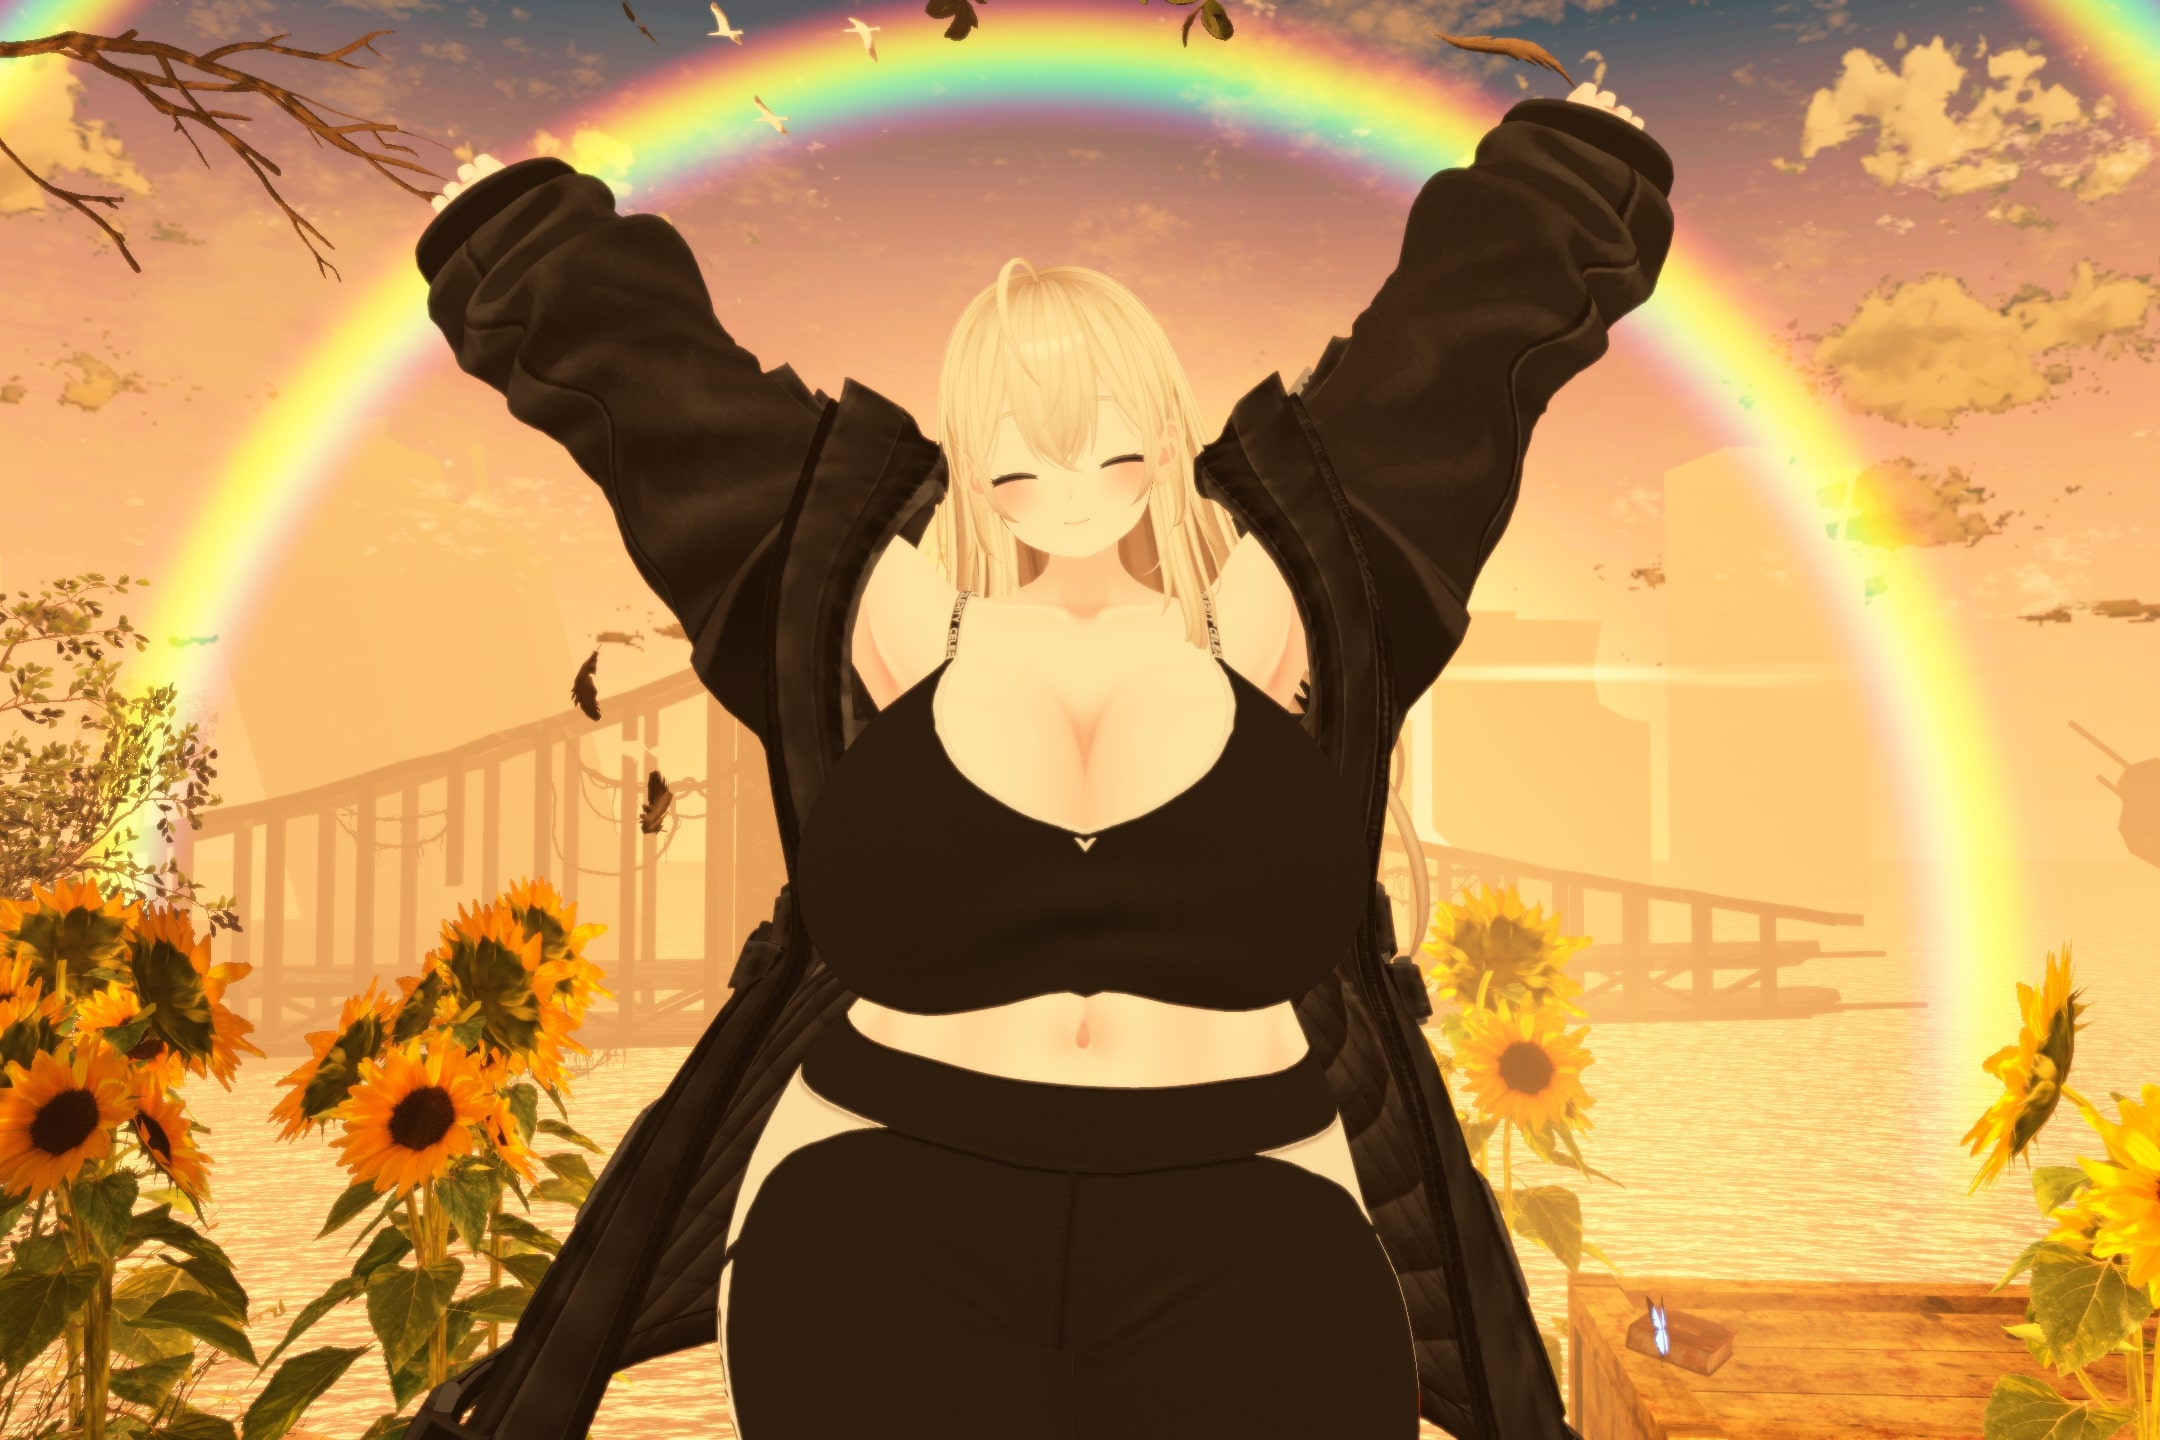
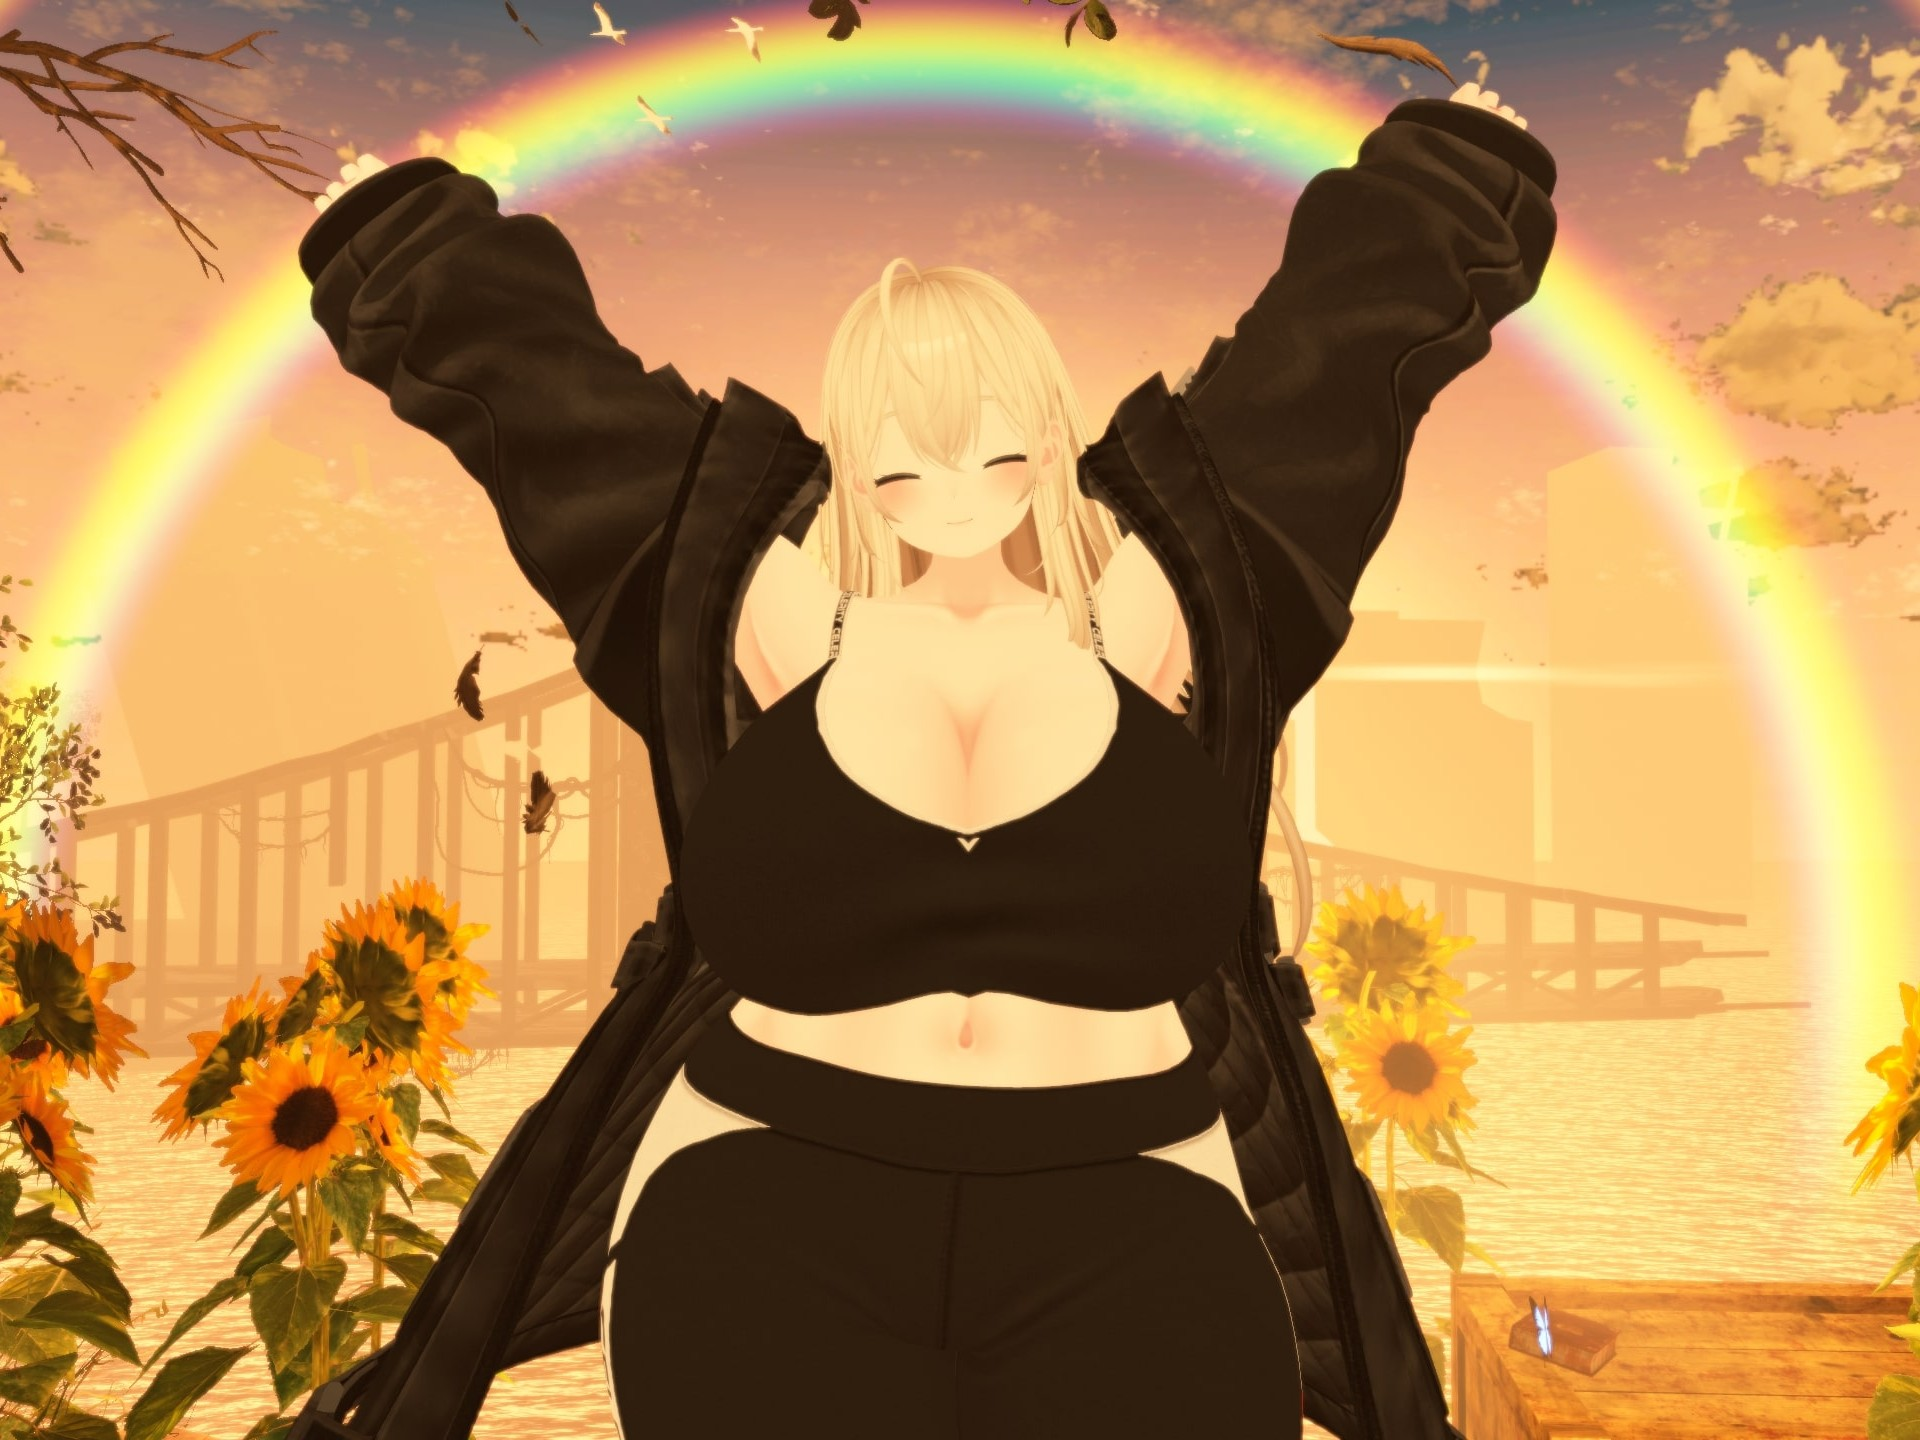
VR: 一部コメントを優しく, 4:3統一

diff --git a/vr/index.html b/vr/index.html
@@ -214,7 +214,7 @@
             <h3 class="header">Z5-MidnightD</h3>
             <budoux-ja>
                 前々作を参考に以前フルセットで購入したナイトドレスをKikyoちゃんに着せた改変。
-                あまりにも速攻で飽きたのか写真がほとんど見つかりません。うーん…
+                このアバター、写真がほとんど見つかりません。うーん…
                 素体:Selestia 顔:Imeris
             </budoux-ja>
             <div class="carousel carousel-slider center">
@@ -233,7 +233,7 @@
                 イヨちゃんの頭は首との接合部の穴が大きく、Blenderで調整したのですが
                 いまだに上を見ると穴が見えてしまうらしく大変なのですが、
                 すっきりしたイヨちゃんの顔とフォーマルな服装が合いますね。
-                後にさらに軽量化したバージョンをこれを元に作成するなど汎用しやすいです。
+                後にAAOでさらに軽量化したバージョンをこれで作成してます。
                 素体:Selestia 顔:Eyo
             </budoux-ja>
             <div class="carousel carousel-slider center">
@@ -288,7 +288,7 @@
         <div id="Z9-description" class="row container section">
             <h3 class="header">Z9-SSS</h3>
             <budoux-ja>
-                Z7の後継ムチムチアバター
+                Z7の後継ムチムチアバター。
                 七頭身(Seven)セレスティア(Selestia)しなの(Shinano)
                 の略称です！
                 素体:Selestia 顔:Shinano
@@ -306,9 +306,9 @@
         <div id="Z10-description" class="row container section">
             <h3 class="header">Z10-SM4H</h3>
             <budoux-ja>
-                ショートスタック、VRでは滅多に見ない性癖。
-                前々からやってみたい改変だったのでやりました
-                当然海外の人の方が評判もアドバイスも良かったです
+                ショートスタック、VRでは滅多に見ない性癖、
+                前々からやってみたい改変だったのでやりました。
+                めちゃくちゃマイナー性癖で海外ニキからの評判は良かったです。
             </budoux-ja>
             <div class="carousel carousel-slider center">
                 <div class="carousel-item"><img src="./vr-pic/Z10-1.jpg" class="carousel-img responsive-img"></div>
